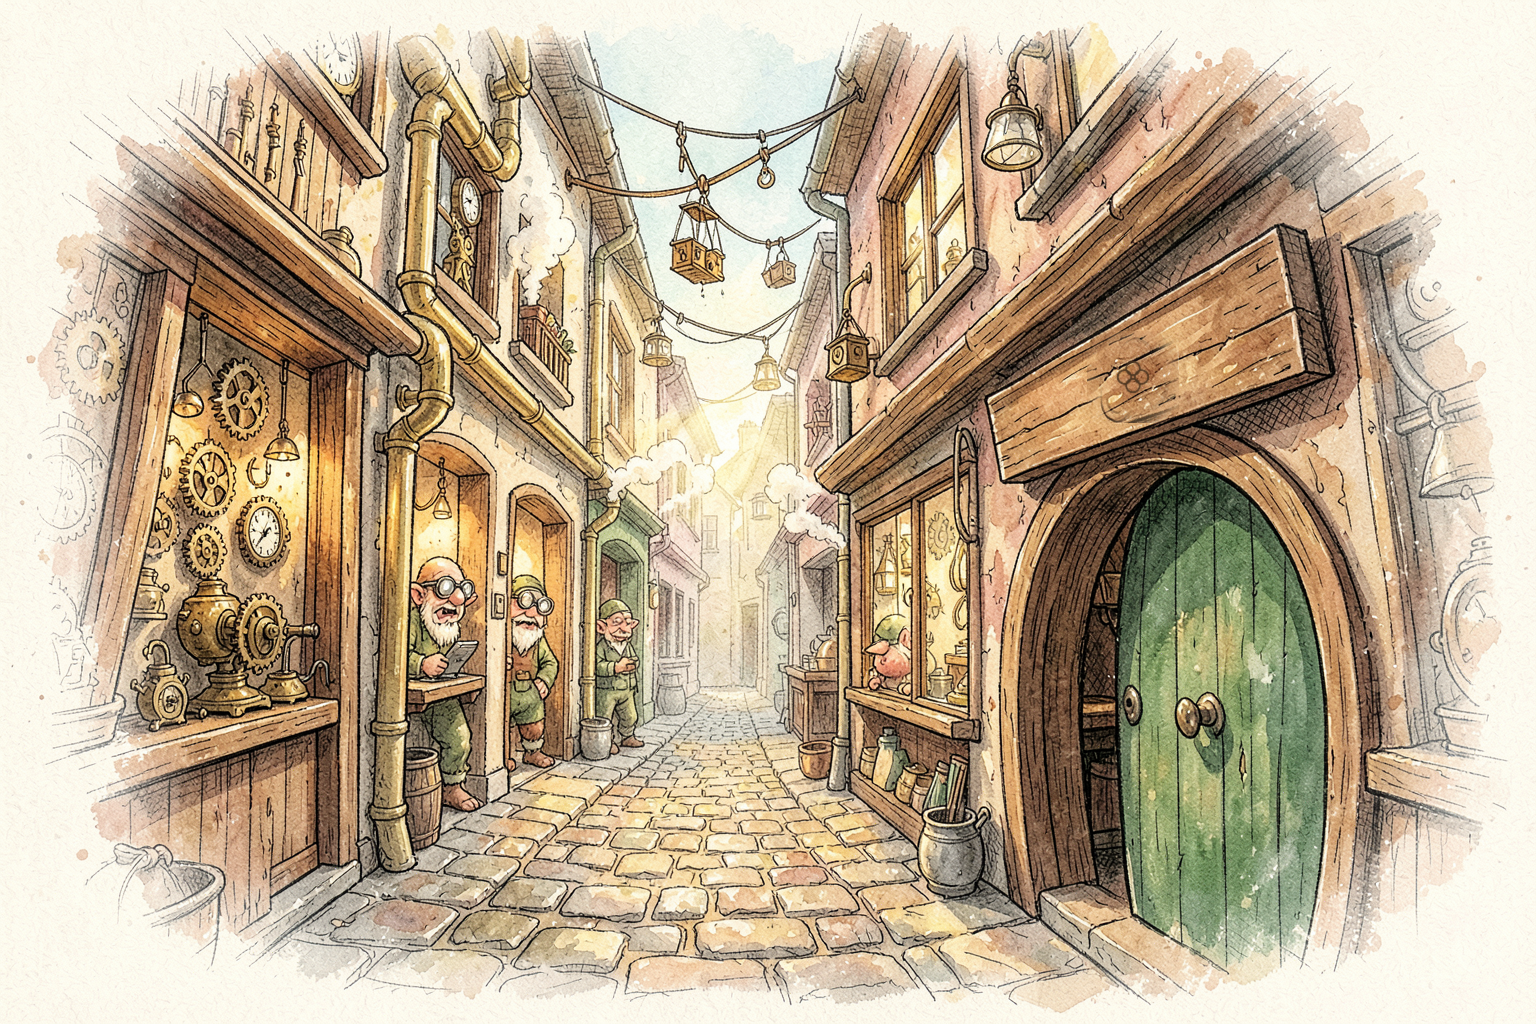
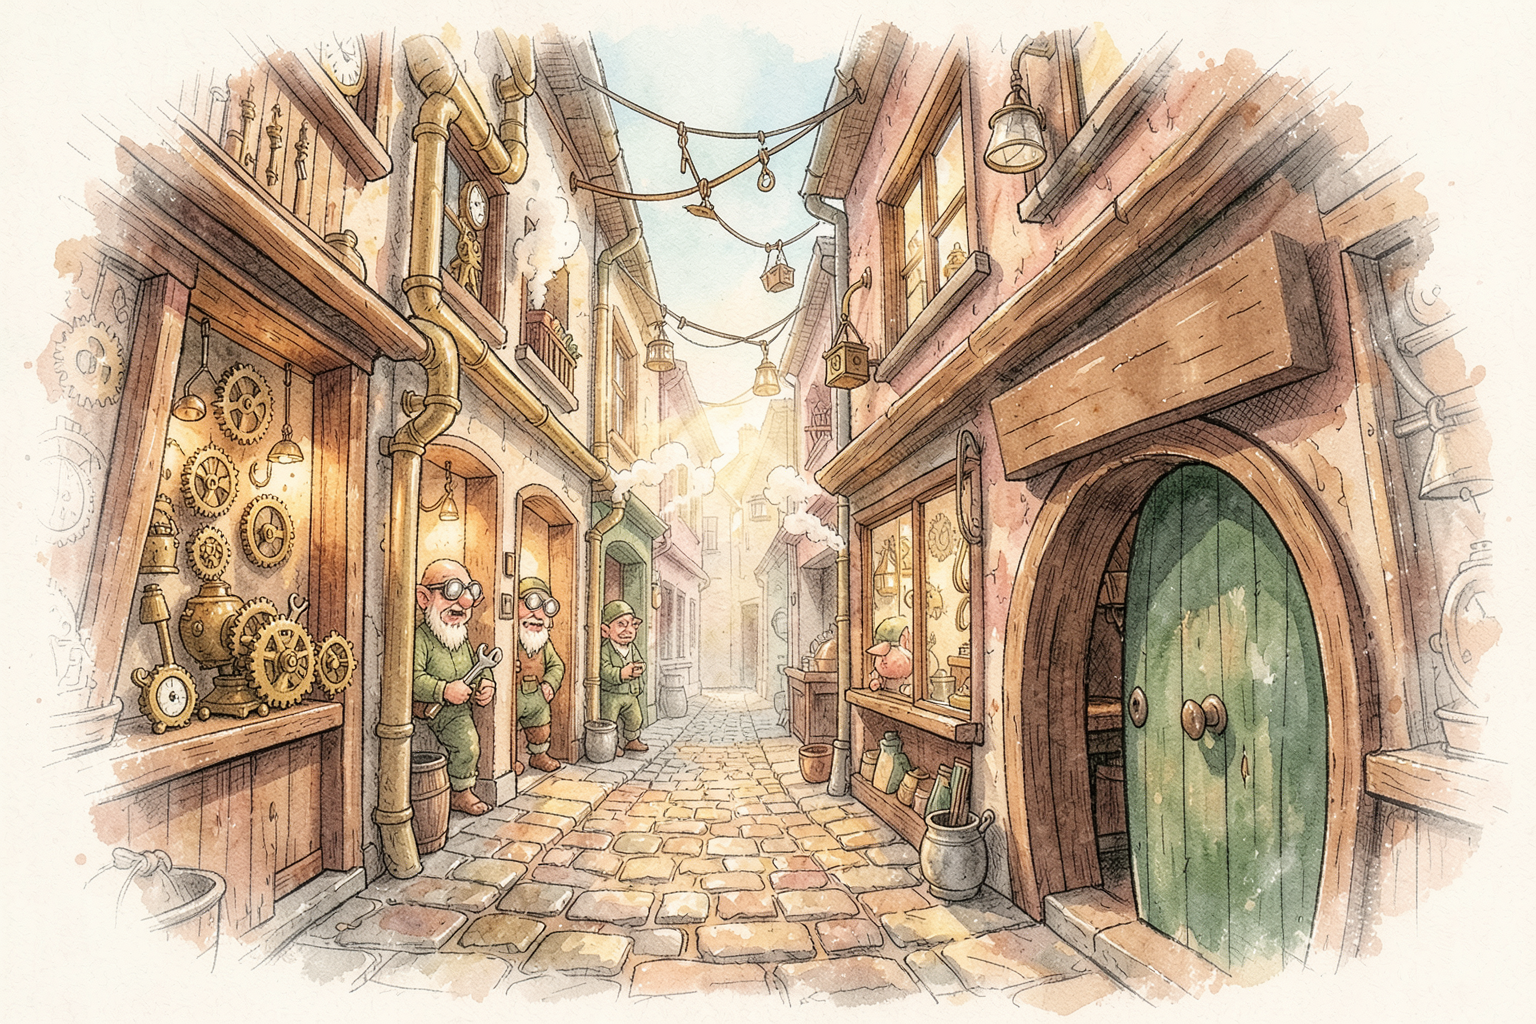
Bildprüfung: Perle 1 neu, Detail-Bearbeitungen Perle 1/3/4/5/7

diff --git a/docs/art/szenen/perle-1/README.md b/docs/art/szenen/perle-1/README.md
@@ -257,3 +257,21 @@ Beide Übersichten angesehen. **Insgesamt sehr gelungen:** Stil einheitlich, Ich
 **Zeichen der Leisen Hand (19.10.2026):** In `szene-markt.png` sah der Aufnäher auf Finks Mütze wie ein Mittelfinger aus; mit `tools/zeichen-einsetzen.py` durch die Vorlage `requisiten/leise-hand-zeichen.png` ersetzt.
 
 **Überarbeitet (19.10.2026, Pasco):** Der eingesetzte Aufnäher wirkte wie per Copy & Paste aufgeklebt. Neu: Das Modell malt den Aufnäher selbst im Bildstil (`figuren/fink-abzeichen.prompt.txt`, Referenzen: Originalbild + `requisiten/leise-hand-zeichen.png`); weil es dabei teils auch Fink veränderte, wurde mit `tools/bereich-mischen.py` nur die Mützenpartie ins Original übernommen. `tools/zeichen-einsetzen.py` ist für Aufnäher nicht mehr zu verwenden (nur für flache Zeichen wie Kreide oder Schnitzerei).
+
+## Bildprüfung 19.10.2026 – umgesetzt am 20.10.2026 (lokale Sitzung)
+
+| Bild | Ergebnis |
+|---|---|
+| `szene-bezugsperson-packt-botenlaeufer` | Bildbearbeitung Seed 1: Postsäcke ohne Schrift |
+| `szene-sonnenuntergang-hafen` | behalten: alle 4 Bearbeitungen machten die Segelschiffe durchscheinend/geisterhaft oder ließen Schrift am Kessel |
+| `szene-zwirbelgasse` | Bildbearbeitung Seed 3: Gnome mit Zahnrädern und Schraubenschlüsseln, keine Tablets |
+| `szene-bezugsperson-packt-reisender` | Bildbearbeitung Seed 1: Zimmer trocken, Regen nur draußen |
+| `tagebuch-kompass` | behalten: alle 4 Bearbeitungen behielten die Ringbindung und legten ein Lederband quer über die Zeichnung |
+| `tagebuch-erzmarke` | Bildbearbeitung Seed 2: aufgeschlagenes Buch mit Lederrücken, keine Ringbindung |
+| `szene-freund-faellt-cassian` | neu, Seed 5: genau zwei Hände, beide an Ästen, keine dritte Hand |
+| `szene-goblin-werkstatt` | neu, Seed 4 (genau zwei bekleidete Goblins, Tickwort auf der Kiste), danach Schwanz von Brakka per Bildbearbeitung entfernt (szene-goblin-werkstatt-schwanz.prompt.txt, Seed 1) |
+| `figur-grumak` | neu, Seed 5: Kohlebecken, Säcke brennen nicht |
+| `szene-klippen-leuchtturm` | neu, Seed 1: drei Beine, schiefer Turm; das Gras-Umklammern fehlt |
+| `szene-lysmara-abend` | neu, Seed 6: durchgehende Felswand mit einer Kerbe |
+| `tagebuch-perle-1` | neu, Seed 1: ein Brunnen, Apfel, Möwe und Tickwort getrennt |
+| `szene-eintreiber-fesk` | neu, Seed 4: Haustür in einer Gasse statt Häuschen; Fesk schaut weiter ins Buch (in allen 6 Seeds) |

diff --git a/docs/art/szenen/perle-3/README.md b/docs/art/szenen/perle-3/README.md
@@ -185,3 +185,10 @@ Alle mit `tools/erzeuge-szene.ps1`, FLUX.2 klein 4B, je 6 Seeds. Übersichten: `
 **Überarbeitet (19.10.2026, Pasco):** Der eingesetzte Aufnäher wirkte wie per Copy & Paste aufgeklebt. Neu: Das Modell malt den Aufnäher selbst im Bildstil (`figuren/fink-abzeichen.prompt.txt`, Referenzen: Originalbild + `requisiten/leise-hand-zeichen.png`); weil es dabei teils auch Fink veränderte, wurde mit `tools/bereich-mischen.py` nur die Mützenpartie ins Original übernommen. `tools/zeichen-einsetzen.py` ist für Aufnäher nicht mehr zu verwenden (nur für flache Zeichen wie Kreide oder Schnitzerei).
 
 **Nachbesserung 20.10.2026 (B3):** `szene-tuchhalle-pruefung` neu, Seed 1 (Referenzen Kettrich, Hulda, Ortsbild): Kettrich mit zwei Armen auf dem Podest, Gnomenjunge mit kurzen Haaren und Schutzbrille, Hulda mit zwei Zöpfen. Die Brillen-Bearbeitung (4 Seeds) erzeugte zusätzliche Augen bzw. Linsentürme auf der Nase, deshalb normale Brille behalten.
+
+## Bildprüfung 19.10.2026 – umgesetzt am 20.10.2026 (lokale Sitzung)
+
+| Bild | Ergebnis |
+|---|---|
+| `szene-zelt-register` | Bildbearbeitung Seed 2: Kugeln leer, Blatt ohne Schrift |
+| `szene-beitritt-webstuhl` | behalten: Brillen-Bearbeitung setzte in allen Seeds Linsentürme auf die Nase |

diff --git a/docs/art/szenen/perle-5/README.md b/docs/art/szenen/perle-5/README.md
@@ -136,3 +136,10 @@ Alle mit `tools/erzeuge-szene.ps1`, FLUX.2 klein 4B, je 6 Seeds. Übersicht: `ue
 **`szene-brief-in-wollmark` neu (19.10.2026, Pasco):** In der alten Fassung stand Fink im Brunnen und hatte drei Hände. Prompt nachgeschärft (sitzt auf dem Rand, genau zwei Hände), Seed 9: zwei Hände (Apfel und Brief), Aufnäher mit Psst-Zeichen direkt mitgemalt.
 
 **Nachbesserung 20.10.2026 (B5):** `szene-talin` neu, Seed 2: genau zwei Arme (eine Hand an der Wand, eine am Korb), Plakette mit Waage am Hals.
+
+## Bildprüfung 19.10.2026 – umgesetzt am 20.10.2026 (lokale Sitzung)
+
+| Bild | Ergebnis |
+|---|---|
+| `szene-wiedersehen-botenlaeufer` | Bildbearbeitung Seed 3: linke Gesichtshälfte klar grau mit Kante |
+| `szene-wiedersehen-schausteller` | Bildbearbeitung Seed 3: linke Gesichtshälfte klar grau mit Kante |

diff --git a/docs/art/szenen/perle-4/README.md b/docs/art/szenen/perle-4/README.md
@@ -175,3 +175,12 @@ Alle mit `tools/erzeuge-szene.ps1`, FLUX.2 klein 4B, je 6 Seeds. Übersichten: `
 | `szene-ruf-erde` / `-wasser` / `-feuer` / `-wind` | 3 / 3 / 2 / 4 | Ashka nicht deutlich erkennbar |
 | `szene-morgen-danach` | 2 | – |
 | `tagebuch-perle-4` | 4 | Buch auf Tisch |
+
+## Bildprüfung 19.10.2026 – umgesetzt am 20.10.2026 (lokale Sitzung)
+
+| Bild | Ergebnis |
+|---|---|
+| `szene-lamm-auf-der-strasse-cassian` | behalten: in keiner Bearbeitung ist die hintere Hälfte klar grau (nur das ganze Lamm leicht grauer) |
+| `szene-lamm-auf-der-strasse-liora` | behalten: wie Cassian |
+| `szene-freund-abgeholt-cassian` | Bildbearbeitung Seed 2: barhäuptig, eigene braune Mütze am Boden |
+| `szene-freund-abgeholt-liora` | Bildbearbeitung Seed 2: barhäuptig, eigene braune Mütze am Boden |

diff --git a/docs/art/szenen/perle-7/README.md b/docs/art/szenen/perle-7/README.md
@@ -161,3 +161,9 @@ Alle mit `tools/erzeuge-szene.ps1`, FLUX.2 klein 4B, je 6 Seeds. Übersicht: `ue
 | `tagebuch-perle-7` | 4 | Buch auf Tisch mit Kerzen |
 
 | `szene-orinbruecke-kontrolle` | 4 (19.10.2026, B1) | Steckbrief nur als leere Rückseite, zwei Söldner (einer von hinten, Waage nur beim vorderen sichtbar), Gänse und Kohlkarren, Steinbrücke. Ein Wasserrad im Bild statt nur am Rand |
+
+## Bildprüfung 19.10.2026 – umgesetzt am 20.10.2026 (lokale Sitzung)
+
+| Bild | Ergebnis |
+|---|---|
+| `szene-silbermark-stube` | Bildbearbeitung Seed 2: Schreiber als Mann um die vierzig mit Brille |

diff --git a/docs/art/szenen/perle-2/README.md b/docs/art/szenen/perle-2/README.md
@@ -79,3 +79,9 @@ Alle mit `tools/erzeuge-szene.ps1`, FLUX.2 klein 4B, je 6 Seeds, Referenzen aus 
 | `szene-schmiedekeller` | 1 | – |
 | `szene-bruecke-abend-liora` / `-cassian` | 3 / 3 | Kein grüner Samt sichtbar (Verkleidung) |
 | `tagebuch-perle-2` | 4 | Buch liegt auf einem Tisch; Handschrift als unleserliche Kringel (wie im Prompt) |
+
+## Bildprüfung 19.10.2026 – umgesetzt am 20.10.2026 (lokale Sitzung)
+
+| Bild | Ergebnis |
+|---|---|
+| `szene-tuchhalle` | behalten: Brillen-Bearbeitung setzte in allen Seeds Linsentürme auf Nase oder Stirn |
